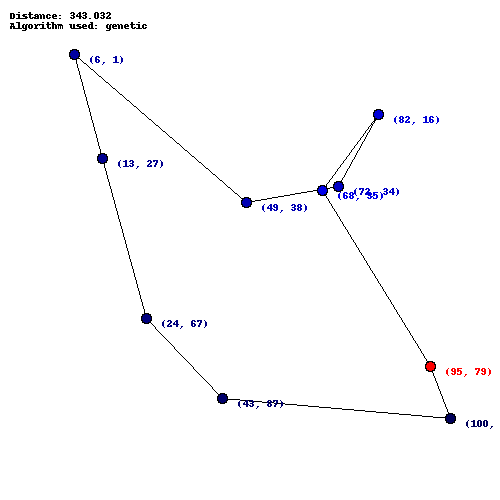
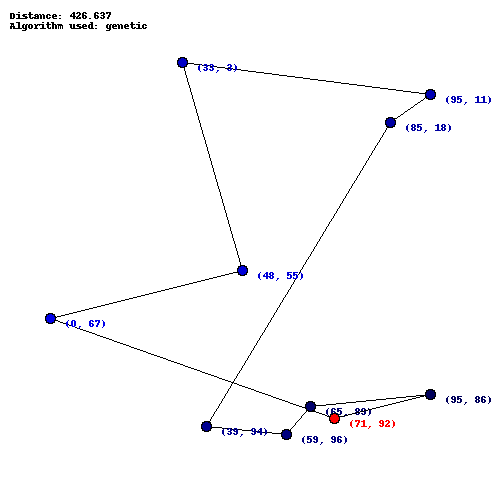
updates to how dynamic and greedy are executed
made it so greedy and dynamic *don't* try to execute if number of cities
> 25, genetic's still up for grabs but it'll take forever probs

diff --git a/Project.py b/Project.py
@@ -88,6 +88,23 @@ def reorder_sol(num, sol, initial):
     newsol = sol[x+1:] + sol[:x]
     return newsol
 
+def change_graph(y):
+    # generate new graph to run on, update all values accordingly
+    update_cities(y)
+    update_graph(y)
+    a = get_graph()
+    locs = a.points
+    start_end = locs[0]
+    locs.remove(start_end)
+
+    update_locs(locs)
+    update_start_end(start_end)
+    for i in range(3):
+        update_solution(i,[])
+        update_dist(i,None)
+    assert(len(locs) == y - 1)
+    assert(start_end not in locs)
+
 def choose_option():
     # use this for UI so user can choose algorithm
     prompt = "What would you like to do? \n \
@@ -100,11 +117,9 @@ def choose_option():
     0: Quit\n--> "
     x = int(raw_input(prompt))
     if x == 1:
-        if get_cities() > 25:
-            y = int(raw_input("Remember that the Greedy solution has a \n \
-            run time on the scale of O(n-1!), so please choose a smaller value for your cities!"))
-            update_cities(y)
-            update_graph(y)
+        while get_cities() > 25:
+            y = int(raw_input("Remember that the Greedy solution has a run time on the scale of O(n-1!), so please choose a smaller value for your cities! \n --> "))
+            change_graph(y)
         t1 = time.time()
         greedy_result = greedy(get_graph())
         t2 = time.time()
@@ -123,7 +138,7 @@ def choose_option():
     elif x == 2:
         global sols
         sols = []
-        children = int(raw_input("How many rounds to run genetic? Please enter a number less than 2^25 to account for hardware limitations. ",))
+        children = int(raw_input("How many rounds to run genetic? Please enter a number less than 2^25 to account for hardware limitations. \n --> "))
         print "Running... "
 
         t1 = time.time()
@@ -138,11 +153,9 @@ def choose_option():
         print "The best solution generated by the genetic algorithm has distance of",gen_result[1]
         print "Genetic algorithm took " + str(total_time) + " seconds."
     elif x == 3:
-        if get_cities() > 25:
-            y = int(raw_input("Remember that the Dynamic Programming solution takes space on the scale of O(n * 2^n) and \
-                 run time on the scale of O(n^2 * 2^n), so please choose a smaller value!"))
-            update_cities(y)
-            update_graph(y)
+        while get_cities() > 25:
+            y = int(raw_input("Remember that the Dynamic Programming solution takes space on the scale of O(n * 2^n) and run time on the scale of O(n^2 * 2^n), so please choose a smaller value! \n --> "))
+            change_graph(y)
         t1 = time.time()
         dynamic_result = tsp_dynamic(get_graph())
         t2 = time.time()
@@ -160,11 +173,7 @@ def choose_option():
         print "The minimum total distance is ", dynamic_result[1]
         print "Dynamic algorithm took " + str(total_time) + " seconds."
     elif x == 4:
-        y =int(raw_input("Which solution would you like to see? \n \
-        1: greedy \n \
-        2: genetic \n \
-        3: dynamic \n \
-        --> "))
+        y =int(raw_input("Which solution would you like to see? \n 1: greedy \n 2: genetic \n 3: dynamic \n --> "))
         if (y < 1 or y > 3):
             print "Sorry, this algorithm doesn't exist!"
             choose_option()
@@ -175,20 +184,7 @@ def choose_option():
             print_path(y-1)
     elif x == 5:
         y = int(raw_input("How many cities should be traveled to? This will randomize the cities again. \n--> "))
-        update_cities(y)
-        update_graph(y)
-        a = get_graph()
-        locs = a.points
-        start_end = locs[0]
-        locs.remove(start_end)
-
-        update_locs(locs)
-        update_start_end(start_end)
-        for i in range(3):
-            update_solution(i,[])
-            update_dist(i,None)
-        assert(len(locs) == y - 1)
-        assert(start_end not in locs)
+        change_graph(y)
     elif x == 6:
         c = int(raw_input("How many cities will you travel to? This includes the initial city.\n--> "))
         while c < 2:
@@ -308,6 +304,7 @@ def main():
     dist = (None, None, None)
 #    e_file = open('efficiency.txt','a')
 
+    print("When asked for input, please only enter in integer values!")
 
     prompt1 = "How many cities would you like to visit? "
     cities = int(raw_input(prompt1))
